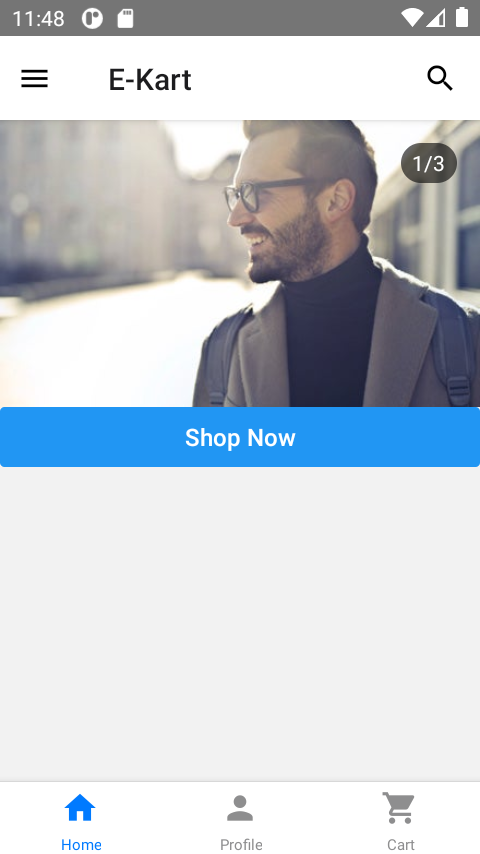
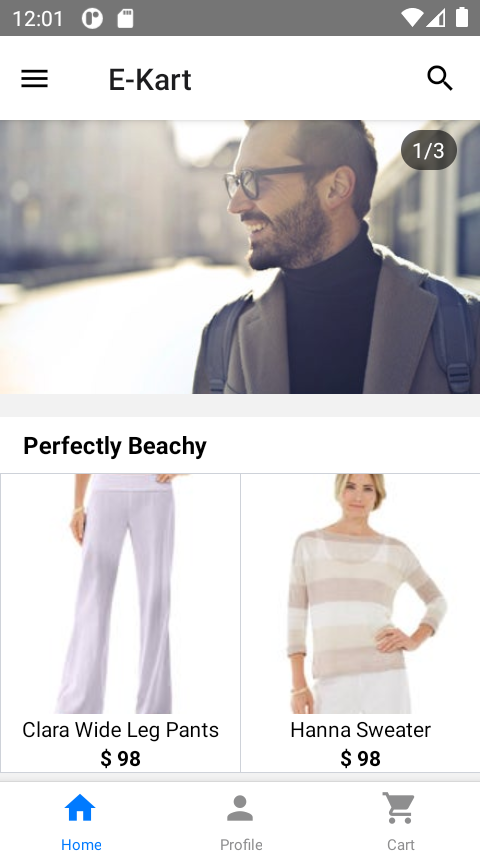
feat: Show Featured Category products on Home Screen

Changed region(s): [[0.0, 0.1218, 1.0, 0.9133], [0.0312, 0.0, 0.1562, 0.0304]]

diff --git a/src/screens/HomeScreen/FeaturedProductList.tsx b/src/screens/HomeScreen/FeaturedProductList.tsx
@@ -1,0 +1,99 @@
+import { useNavigation } from '@react-navigation/native';
+import React, { useEffect } from 'react';
+import { ActivityIndicator, View, FlatList, StyleSheet } from 'react-native';
+import { Text } from 'react-native-elements';
+import { ProductInListType } from '../../apollo/queries/productsFragment';
+import { ProductListItem } from '../../components';
+import { SPACING } from '../../constants';
+import { useCategoryProducts } from '../../logic';
+import { Routes } from '../../navigation';
+
+type Props = {
+  name?: string;
+  categoryId: string;
+};
+
+const FeaturedProductList = ({
+  name,
+  categoryId,
+}: Props): React.ReactElement => {
+  const {
+    getCategoryProducts,
+    loading,
+    products,
+    error,
+  } = useCategoryProducts({ categoryId });
+  const navigation = useNavigation();
+
+  useEffect(() => {
+    getCategoryProducts();
+  }, []);
+
+  const onProductItemClicked = (index: number) => {
+    navigation.navigate(Routes.NAVIGATION_TO_PRODUCT_DETAILS_SCREEN, {
+      name: products[index].name,
+      sku: products[index].sku,
+    });
+  };
+
+  const renderItem = ({
+    item,
+    index,
+  }: {
+    item: ProductInListType;
+    index: number;
+  }) => {
+    return (
+      <ProductListItem
+        item={item}
+        index={index}
+        horizontalMode
+        onPress={onProductItemClicked}
+      />
+    );
+  };
+
+  if (error?.message) {
+    return (
+      <View>
+        <Text>{error.message}</Text>
+      </View>
+    );
+  }
+
+  if (loading) {
+    return <ActivityIndicator size="large" />;
+  }
+
+  return (
+    <View style={styles.container}>
+      {name && (
+        <Text h4 h4Style={styles.title}>
+          {name}
+        </Text>
+      )}
+      <FlatList
+        horizontal
+        showsHorizontalScrollIndicator={false}
+        data={products}
+        renderItem={renderItem}
+        keyExtractor={item => `productListItem${item.sku}`}
+      />
+    </View>
+  );
+};
+
+// TODO: Extract hard coded values
+const styles = StyleSheet.create({
+  container: {
+    marginBottom: SPACING.large,
+    backgroundColor: '#fff',
+  },
+  title: {
+    marginStart: SPACING.large,
+    paddingVertical: SPACING.small,
+    fontSize: 16,
+  },
+});
+
+export default FeaturedProductList;

diff --git a/src/screens/HomeScreen/HomeScreen.tsx b/src/screens/HomeScreen/HomeScreen.tsx
@@ -3,8 +3,9 @@ import { BottomTabNavigationProp } from '@react-navigation/bottom-tabs';
 import { BottomTabNavigatorParamList, Routes } from '../../navigation';
 import { GenericTemplate, MediaGallery } from '../../components';
 import { magentoConfig } from '../../../magento.config';
-import { DIMENS } from '../../constants';
-import { Button } from 'react-native-elements';
+import { DIMENS, SPACING } from '../../constants';
+import FeaturedProductList from './FeaturedProductList';
+import { StyleSheet } from 'react-native';
 
 type Props = {
   navigation: BottomTabNavigationProp<
@@ -13,17 +14,29 @@ type Props = {
   >;
 };
 
-const HomeScreen = ({ navigation }: Props): React.ReactElement => {
+const HomeScreen = ({}: Props): React.ReactElement => {
   return (
-    <GenericTemplate>
+    <GenericTemplate scrollable>
       <MediaGallery
         resizeMode="cover"
         items={magentoConfig.homeCarousel}
         height={DIMENS.homeScreen.carouselHeight}
+        containerStyle={styles.mediaContainer}
       />
-      <Button title="Shop Now" onPress={navigation.openDrawer} />
+      {magentoConfig.homeFeaturedCategories.map(featuredCategory => (
+        <FeaturedProductList
+          name={featuredCategory.name}
+          categoryId={featuredCategory.id}
+        />
+      ))}
     </GenericTemplate>
   );
 };
+
+const styles = StyleSheet.create({
+  mediaContainer: {
+    marginBottom: SPACING.large,
+  },
+});
 
 export default HomeScreen;

diff --git a/src/components/ProductListItem/ProductListItem.tsx b/src/components/ProductListItem/ProductListItem.tsx
@@ -8,6 +8,7 @@ import { DIMENS } from '../../constants';
 interface Props {
   item: ProductInListType;
   index: number;
+  horizontalMode?: boolean;
   onPress(arg0: number): void;
   navigation?: {
     navigate: (arg0: string, arg1: object) => {};
@@ -20,6 +21,7 @@ const COLUMN_WIDTH = DIMENS.common.WINDOW_WIDTH / 2;
 const ProductListItem = ({
   item,
   index,
+  horizontalMode = false,
   onPress,
 }: Props): React.ReactElement => {
   const { theme } = useContext(ThemeContext);
@@ -34,7 +36,8 @@ const ProductListItem = ({
         style={[
           styles.container,
           { borderColor: theme.colors?.divider },
-          index % 2 !== 0 && styles.leftBorder,
+          horizontalMode && styles.topBorder,
+          (horizontalMode || index % 2 !== 0) && styles.leftBorder,
         ]}
       >
         {renderImage()}
@@ -53,9 +56,13 @@ const styles = StyleSheet.create({
     width: COLUMN_WIDTH,
     borderBottomWidth: DIMENS.common.borderWidth,
     backgroundColor: 'white',
+    overflow: 'hidden',
   },
   leftBorder: {
     borderLeftWidth: DIMENS.common.borderWidth,
+  },
+  topBorder: {
+    borderTopWidth: DIMENS.common.borderWidth,
   },
   image: {
     width: COLUMN_WIDTH,

diff --git a/magento.config.ts b/magento.config.ts
@@ -27,6 +27,14 @@ export const magentoConfig = {
         'https://master-7rqtwti-mfwmkrjfqvbjk.us-4.magentosite.cloud/media/woman-wearing-orange-dress-3503488_sm.jpg?auto=webp&format=pjpg&quality=85',
     },
   ],
+  // featured Catgeory products to be shown on HomeScreen, add as many as you want
+  homeFeaturedCategories: [
+    {
+      id: '12',
+      name: 'Skirts',
+    },
+    { id: '11', name: 'Pants & Shorts' },
+  ],
 };
 
 interface CurrencySymbols {
